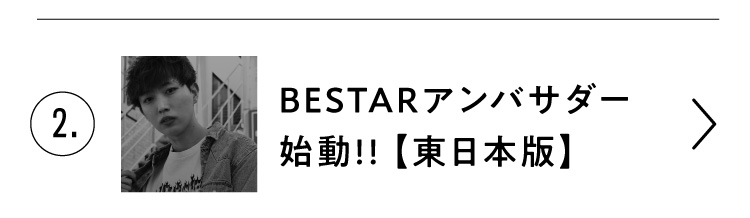
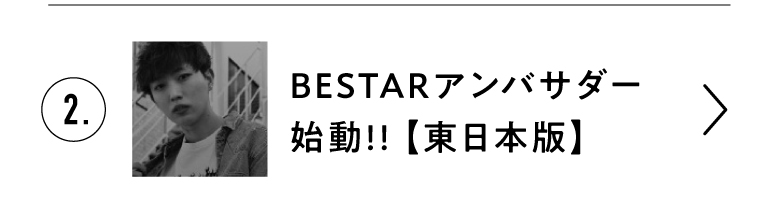
added contents3 pic

diff --git a/index.html b/index.html
@@ -64,6 +64,9 @@
                 <a href="https://bestar-official.github.io/web-magazine_20200715/">
                     <img class="webMagazine" src="./images/contents2.jpg" alt="back_button">
                 </a>
+                <a href="https://bestar-official.github.io/web-magazine_20200722/">
+                    <img class="webMagazine" src="./images/contents3.jpg" alt="back_button">
+                </a>
 
                 <!-- <img src="./images/under_line.png" alt="アンダーライン"> -->
                 <a href="https://aura-mico.jp/qr-codes/5683/s">
